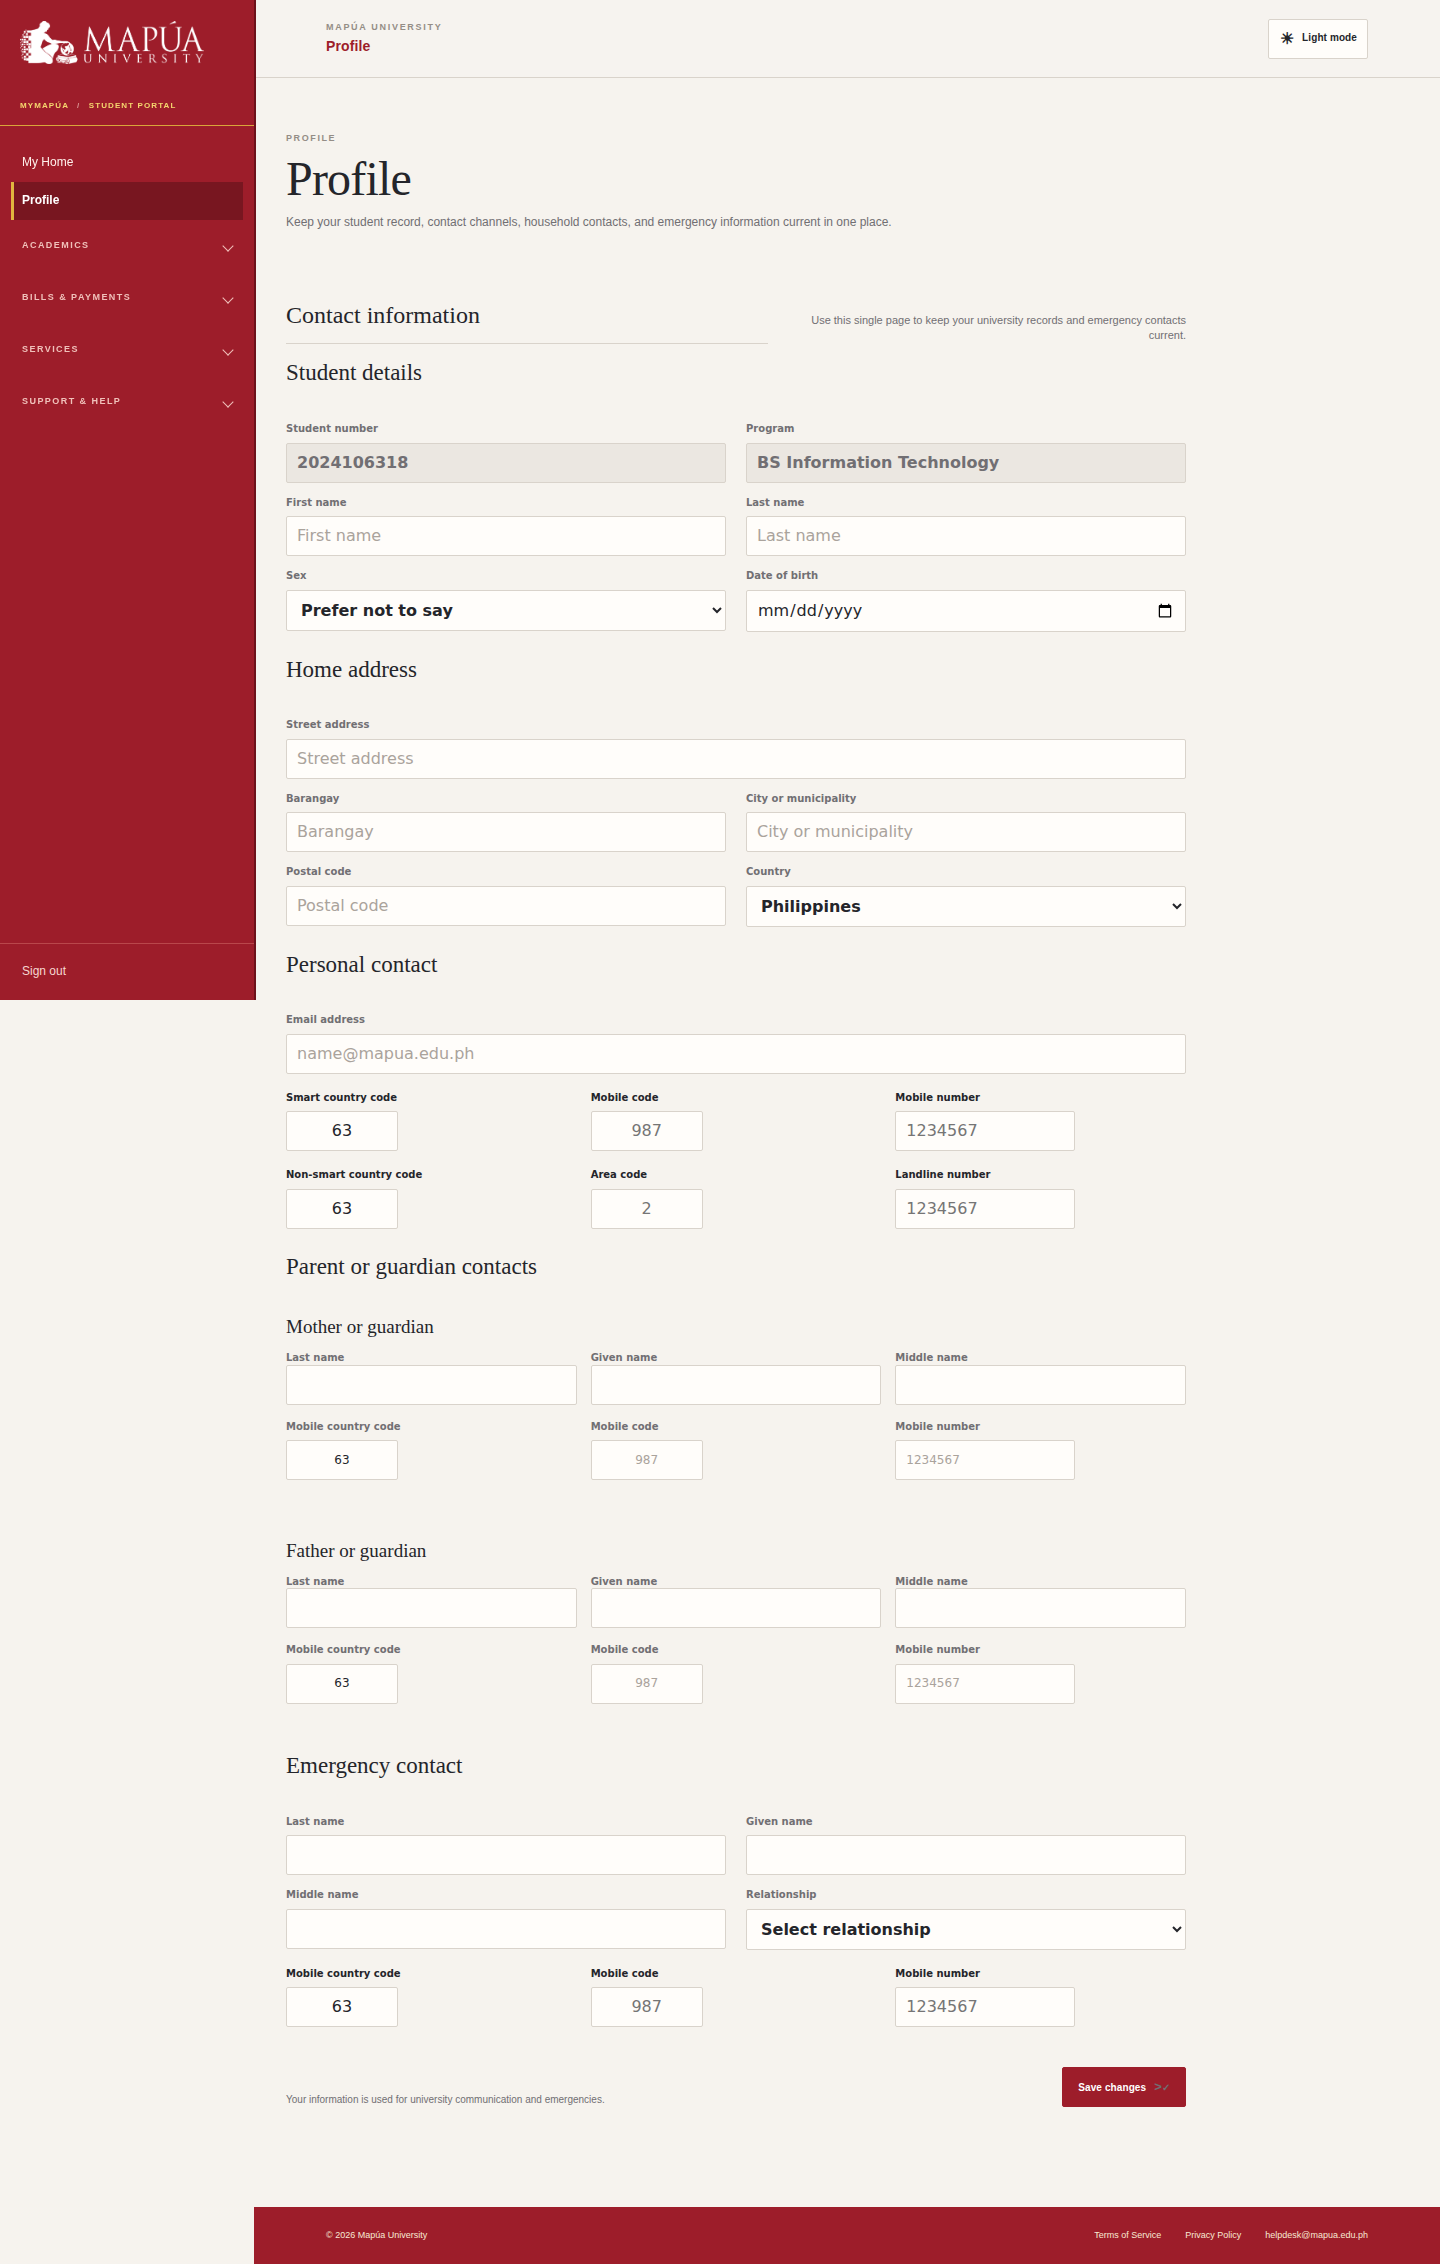
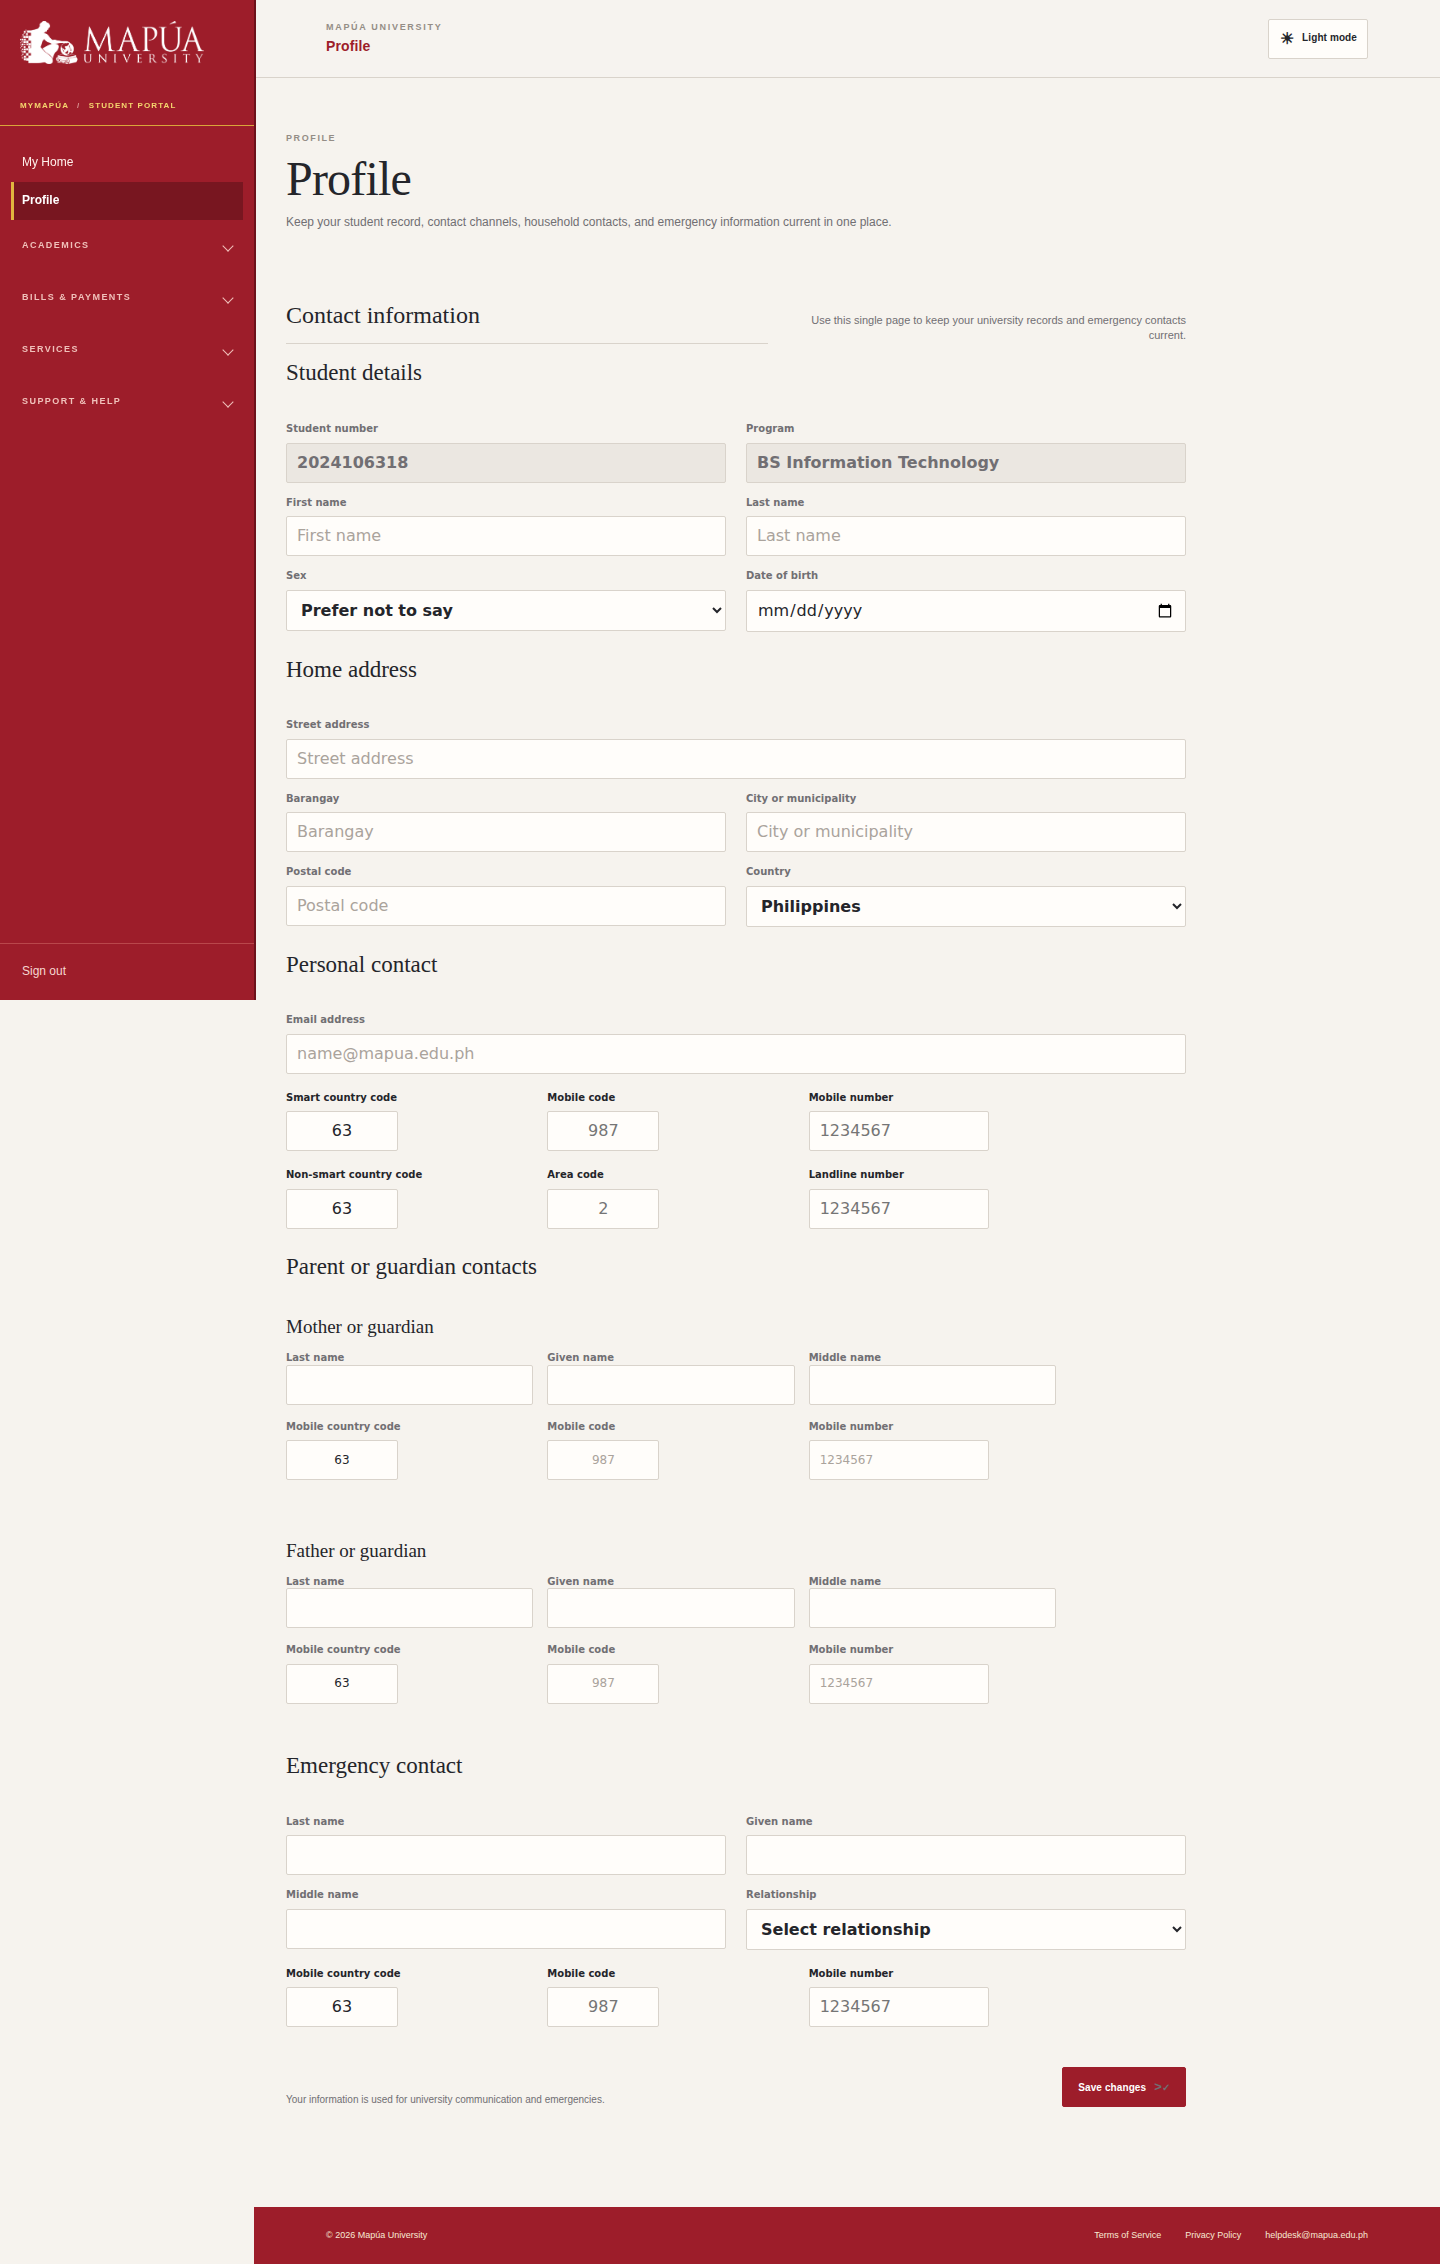
tighten profile contact spacing

diff --git a/styles.css b/styles.css
@@ -1646,6 +1646,13 @@ html[data-theme="dark"] .content .announcement-item h3 {
 	text-align: center;
 }
 
+@media (min-width: 801px) {
+	.content .contact-form .name-grid,
+	.content .contact-form .phone-grid {
+		width: min(100%, 770px);
+	}
+}
+
 .content .grade-summary {
 	grid-template-columns: repeat(4, minmax(0, 1fr)) !important;
 }
